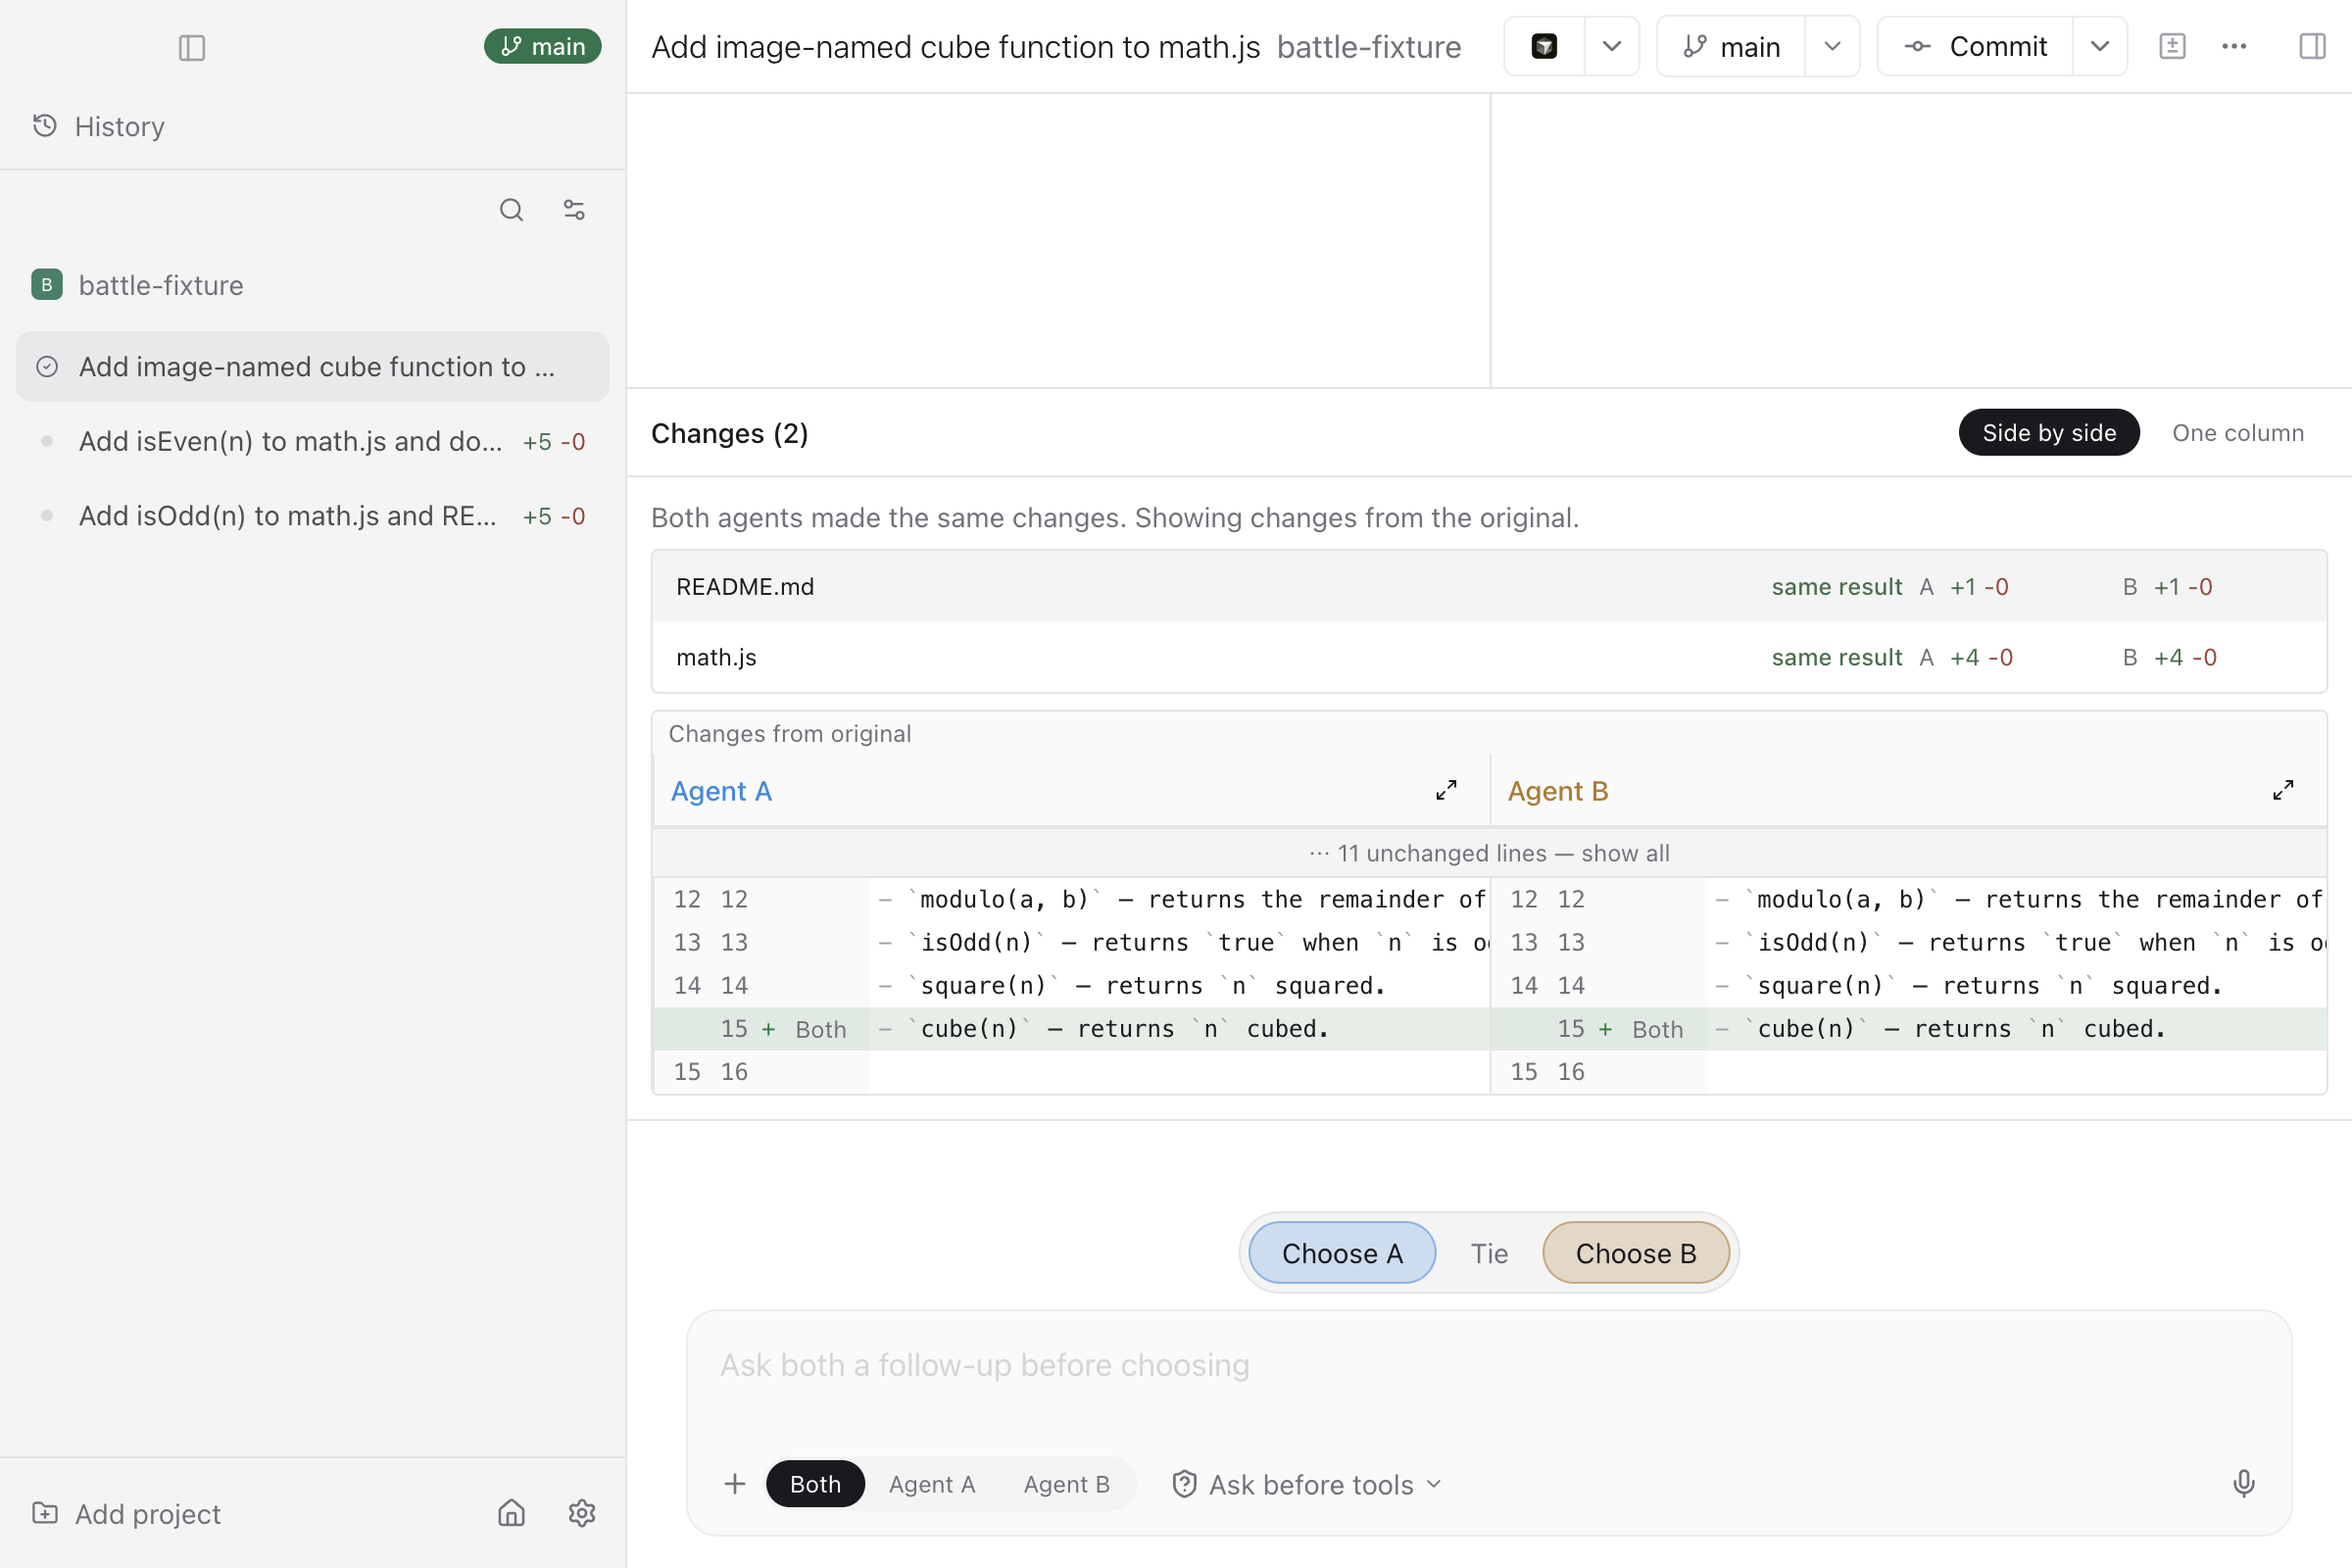
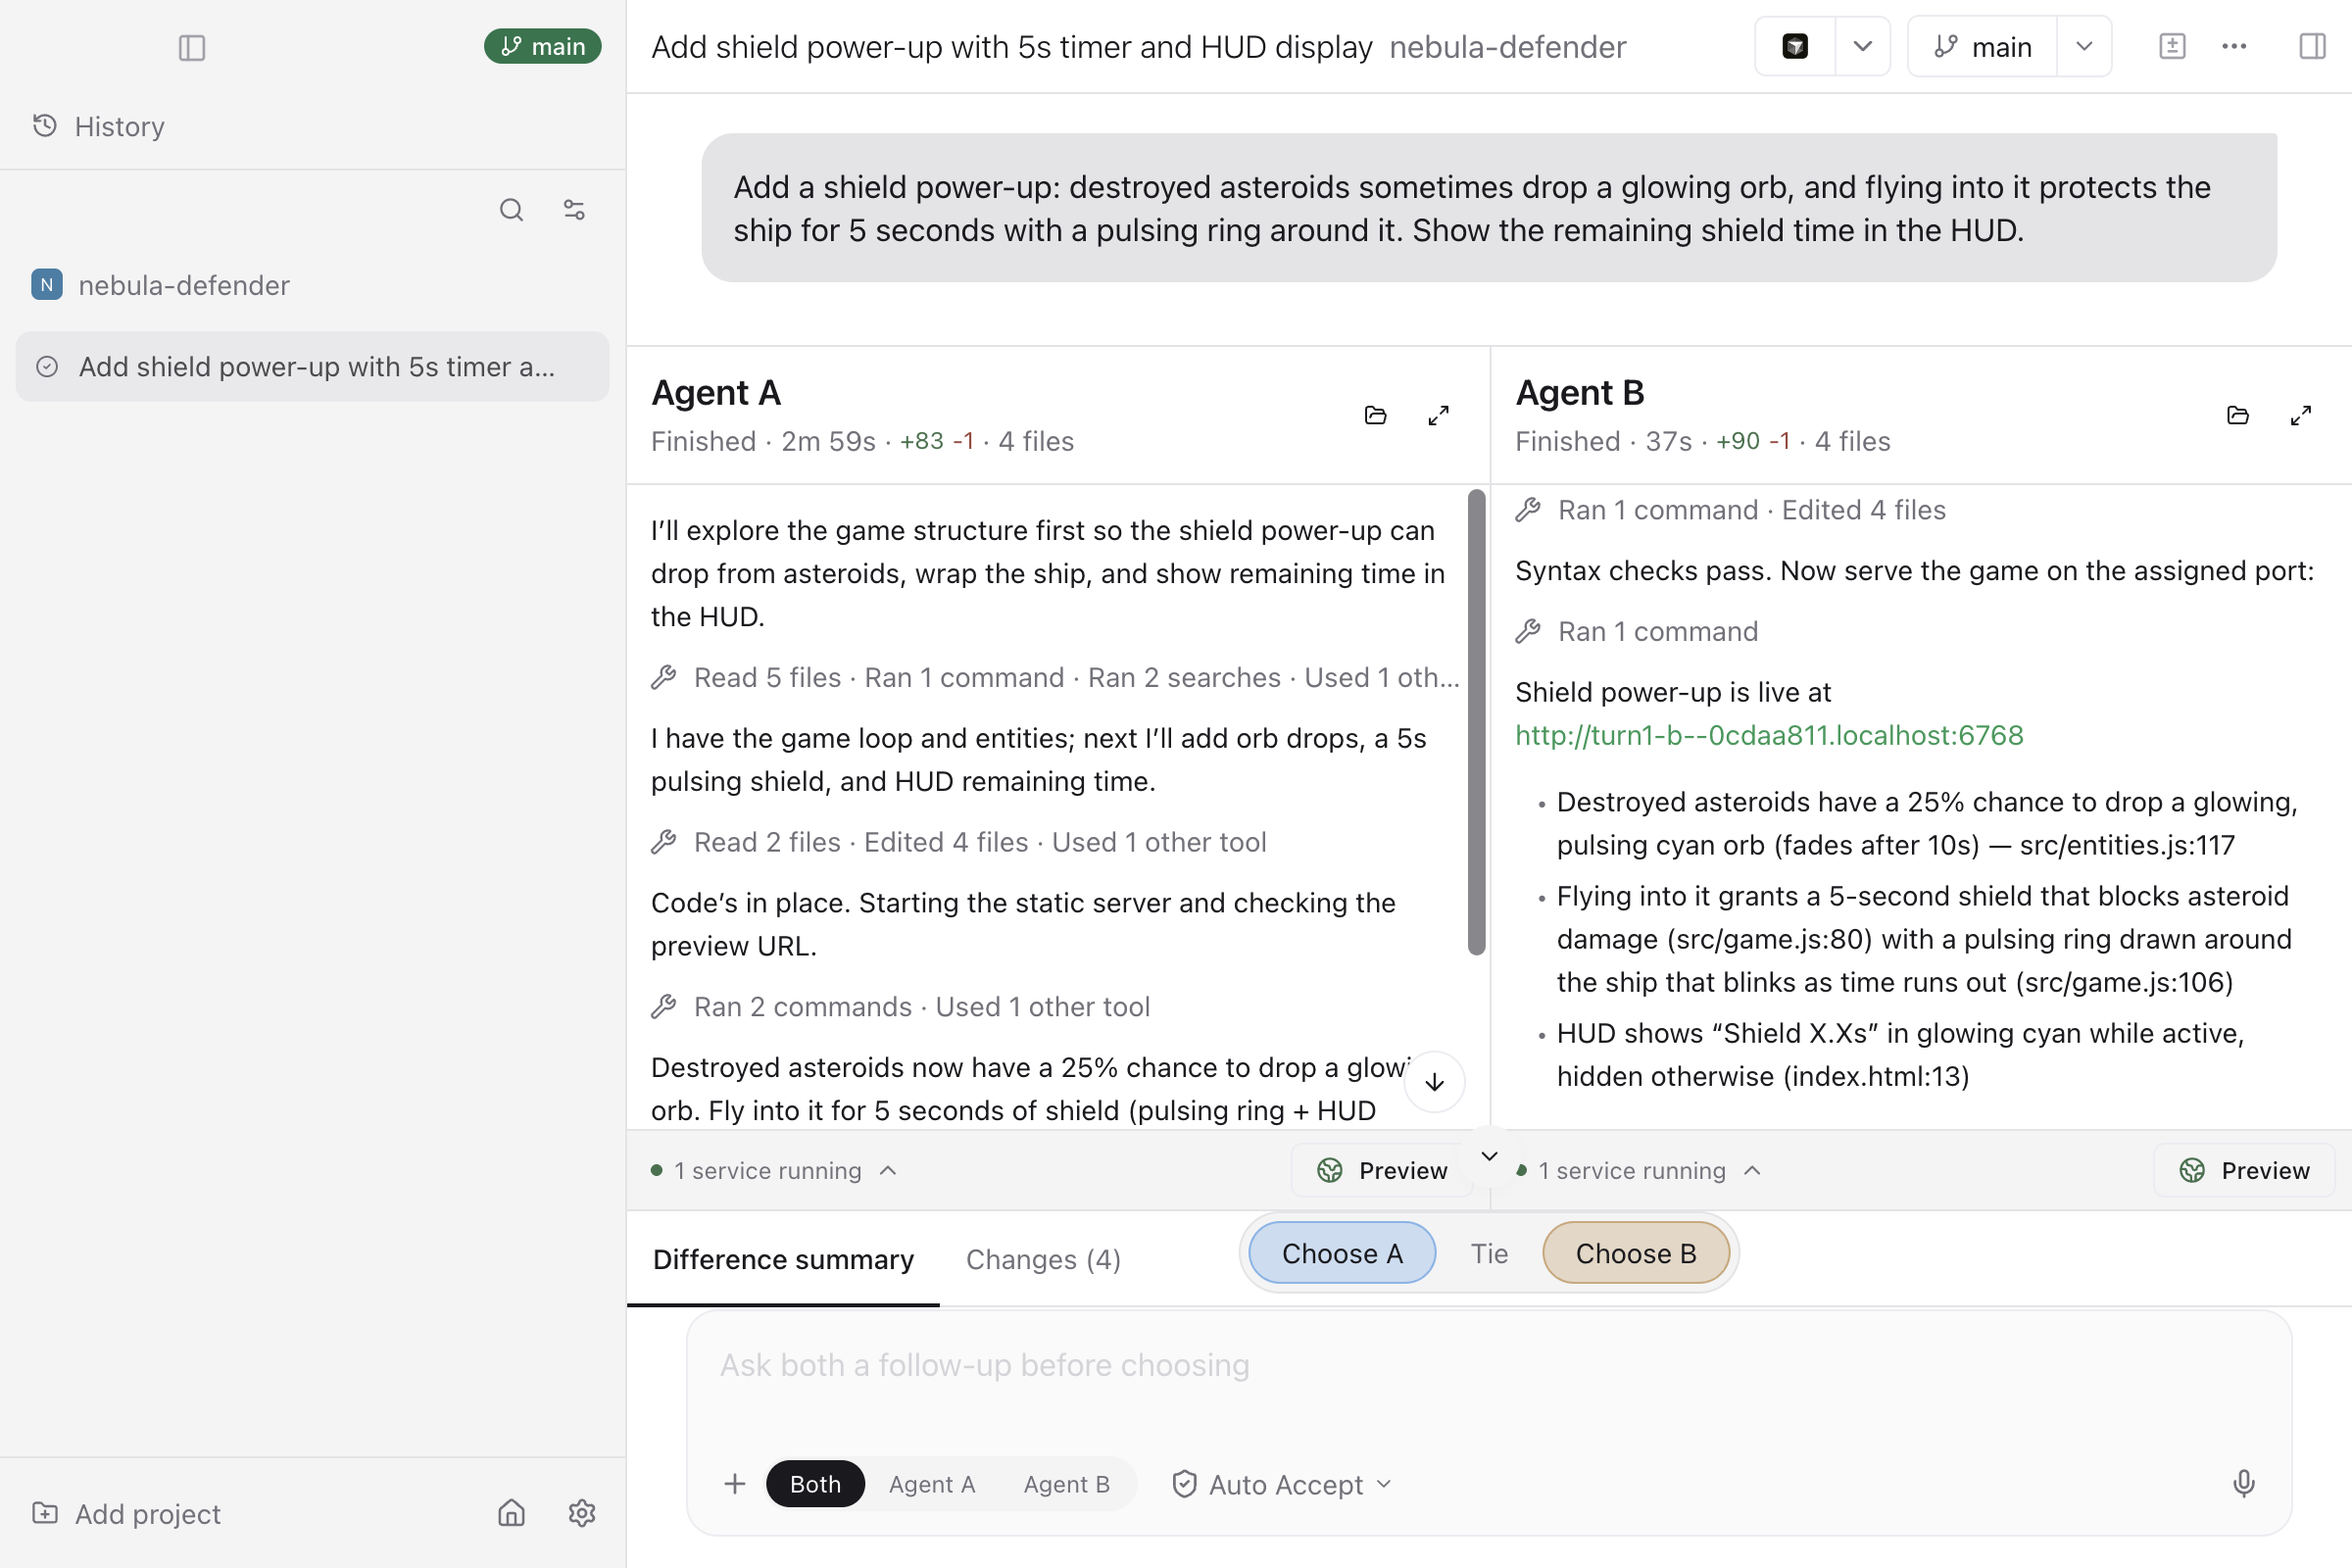
docs: show a real battle in the README screenshot
The screenshot now shows two agents adding a shield power-up to a small
browser game, with their results side by side and the vote bar.

Claude-Session: https://claude.ai/code/session_01GZSrFdD43CARskDA3P3mMQ

diff --git a/README.md b/README.md
@@ -14,7 +14,7 @@ Each contestant is a model drawn at random from a pool and run through the
 bundled engine. You only see which models they were after you vote.
 
 <p align="center">
-  <img src="docs/images/battle.png" alt="A battle: both agents' changes side by side, with Choose A, Tie and Choose B below">
+  <img src="docs/images/battle.png" alt="A battle: two agents' results side by side, with Choose A, Tie and Choose B below">
 </p>
 
 The shipped product is the Electron desktop app. `packages/app` can run in a
